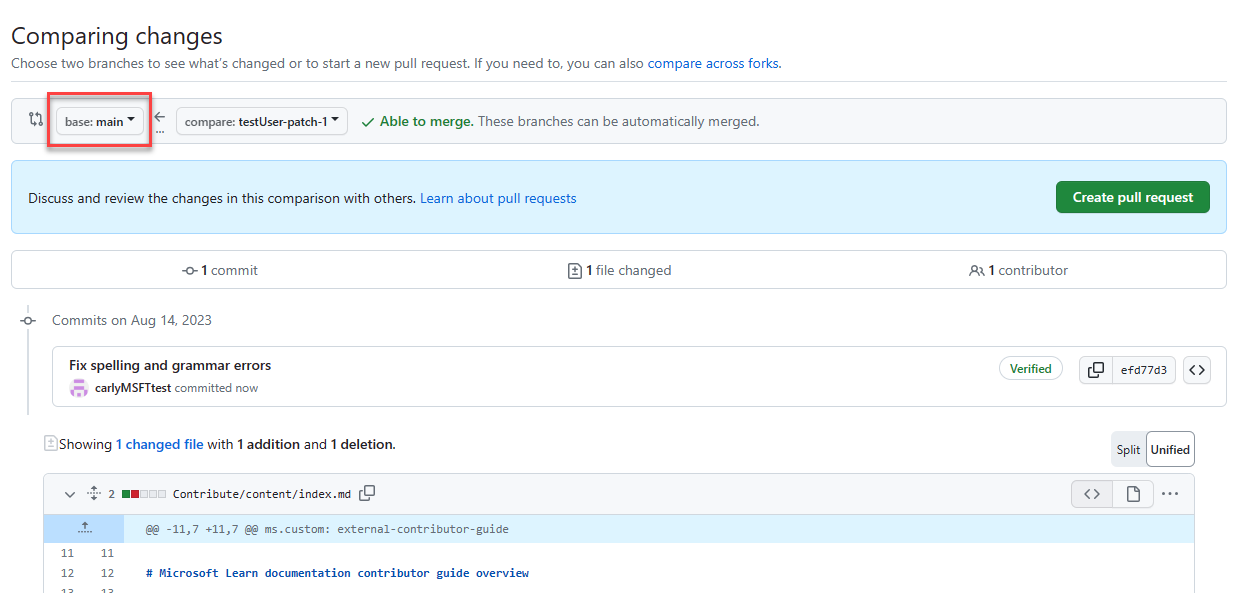
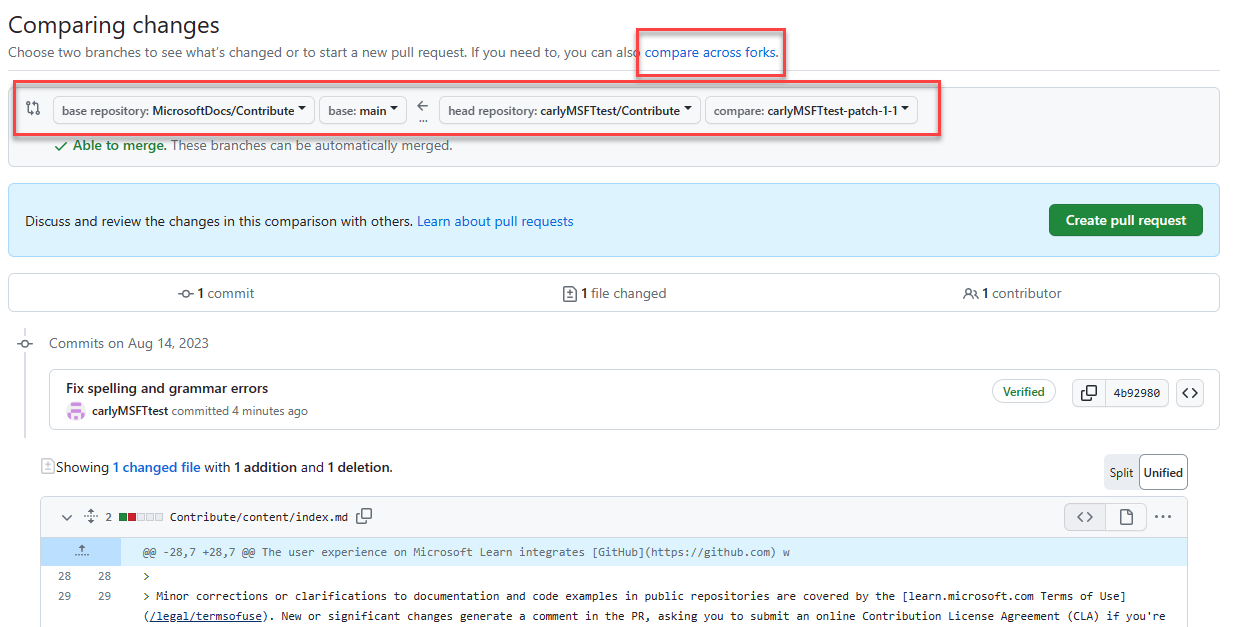
Fix images and update text

Changed region(s): [[0.0, 0.0304, 1.0, 0.6678], [0.0308, 0.6981, 0.9862, 1.0], [0.0308, 0.7285, 0.339, 0.7589]]

diff --git a/Contribute/content/index.md b/Contribute/content/index.md
@@ -56,11 +56,13 @@ Quick edits streamline the process to report and fix small errors and omissions 
 
    :::image type="content" source="media/index/commit-changes.png" alt-text="Propose and commit file changes.":::
 
-1. Now that you've proposed and committed your changes, you need to ask the owners of the repository to "pull" your changes into their repository. This is done using something called a [pull requests](https://docs.github.com/articles/using-pull-requests)(PR). When you select **Propose changes**, you'll see a page like this:
+1. Now that you've proposed and committed your changes, you need to ask the owners of the repository to "pull" your changes into their repository. This is done using a [pull request](https://docs.github.com/articles/using-pull-requests)(PR). When you select **Propose changes**, you'll see a page like this:
 
-   :::image type="content" source="media/index/create-pull-request.png" alt-text="Screenshot of the compare changes and create pull request screen.":::
+   :::image type="content" source="media/index/create-pull-request.png" alt-text="Screenshot of the Comparing changes screen.":::
 
-   Confirm that the **base** branch is `main`. Review your changes, and then select **Create pull request**. 
+   Select **compare across forks** and make sure your branch configuration looks like that shown above. Your PR should propose changes from your fork and branch (represented by the two items on the right side of the arrow) into the Microsoft repo's fork and `main` branch (represented by the two items on the left side of the arrow).
+
+   Review your changes, and then select **Create pull request**.
 
 1. On the **Open a pull request** page, preview your PR. You can change the title or description fields if needed. When you're ready, select **Create pull request**. This action opens your PR.
 
